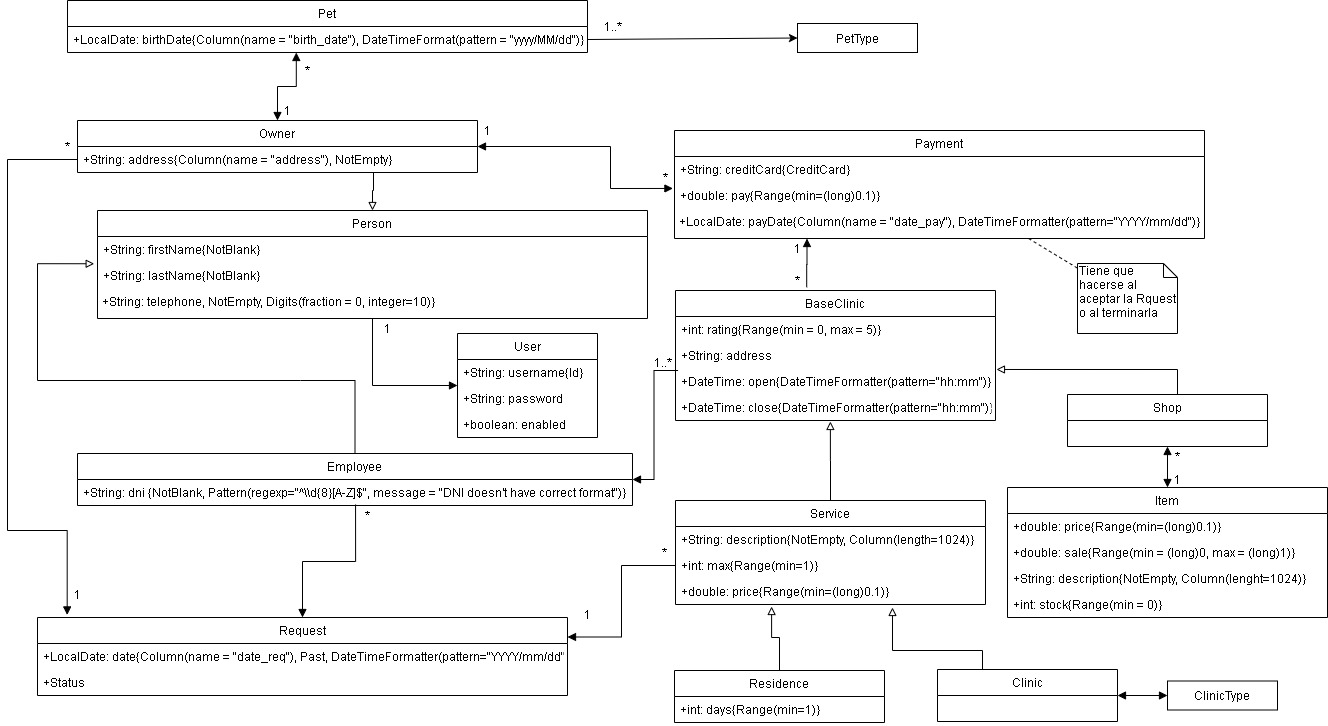
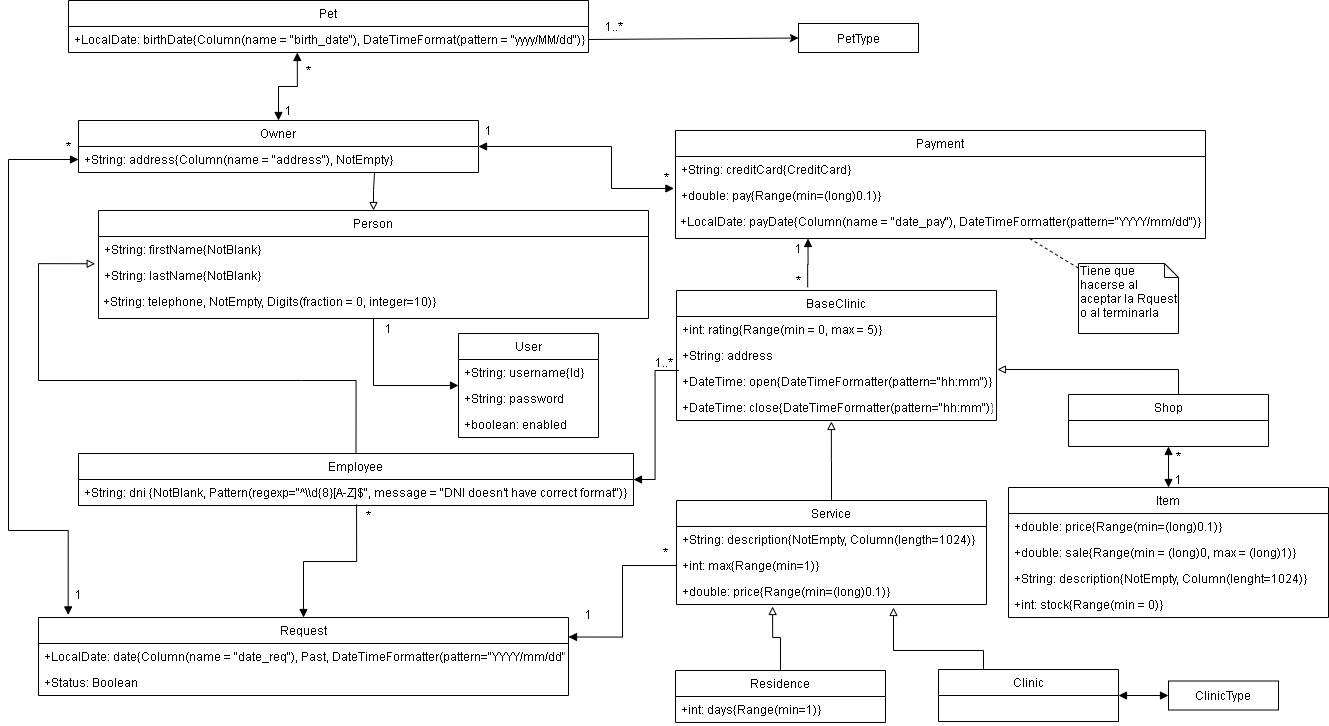
Modificado diagrama en Request-Owner

diff --git a/src/main/java/org/springframework/samples/petclinic/model/Residence.java b/src/main/java/org/springframework/samples/petclinic/model/Residence.java
@@ -15,21 +15,9 @@
  */
 package org.springframework.samples.petclinic.model;
 
-import java.util.Date;
-import java.util.Set;
-
-import javax.persistence.CascadeType;
-import javax.persistence.Column;
 import javax.persistence.Entity;
-import javax.persistence.JoinColumn;
-import javax.persistence.OneToMany;
-import javax.persistence.OneToOne;
-import javax.validation.constraints.NotEmpty;
-import javax.validation.constraints.Pattern;
 
 import org.hibernate.validator.constraints.Range;
-import org.springframework.data.util.Pair;
-import org.springframework.format.annotation.DateTimeFormat;
 
 /**
  The services of the clinic
